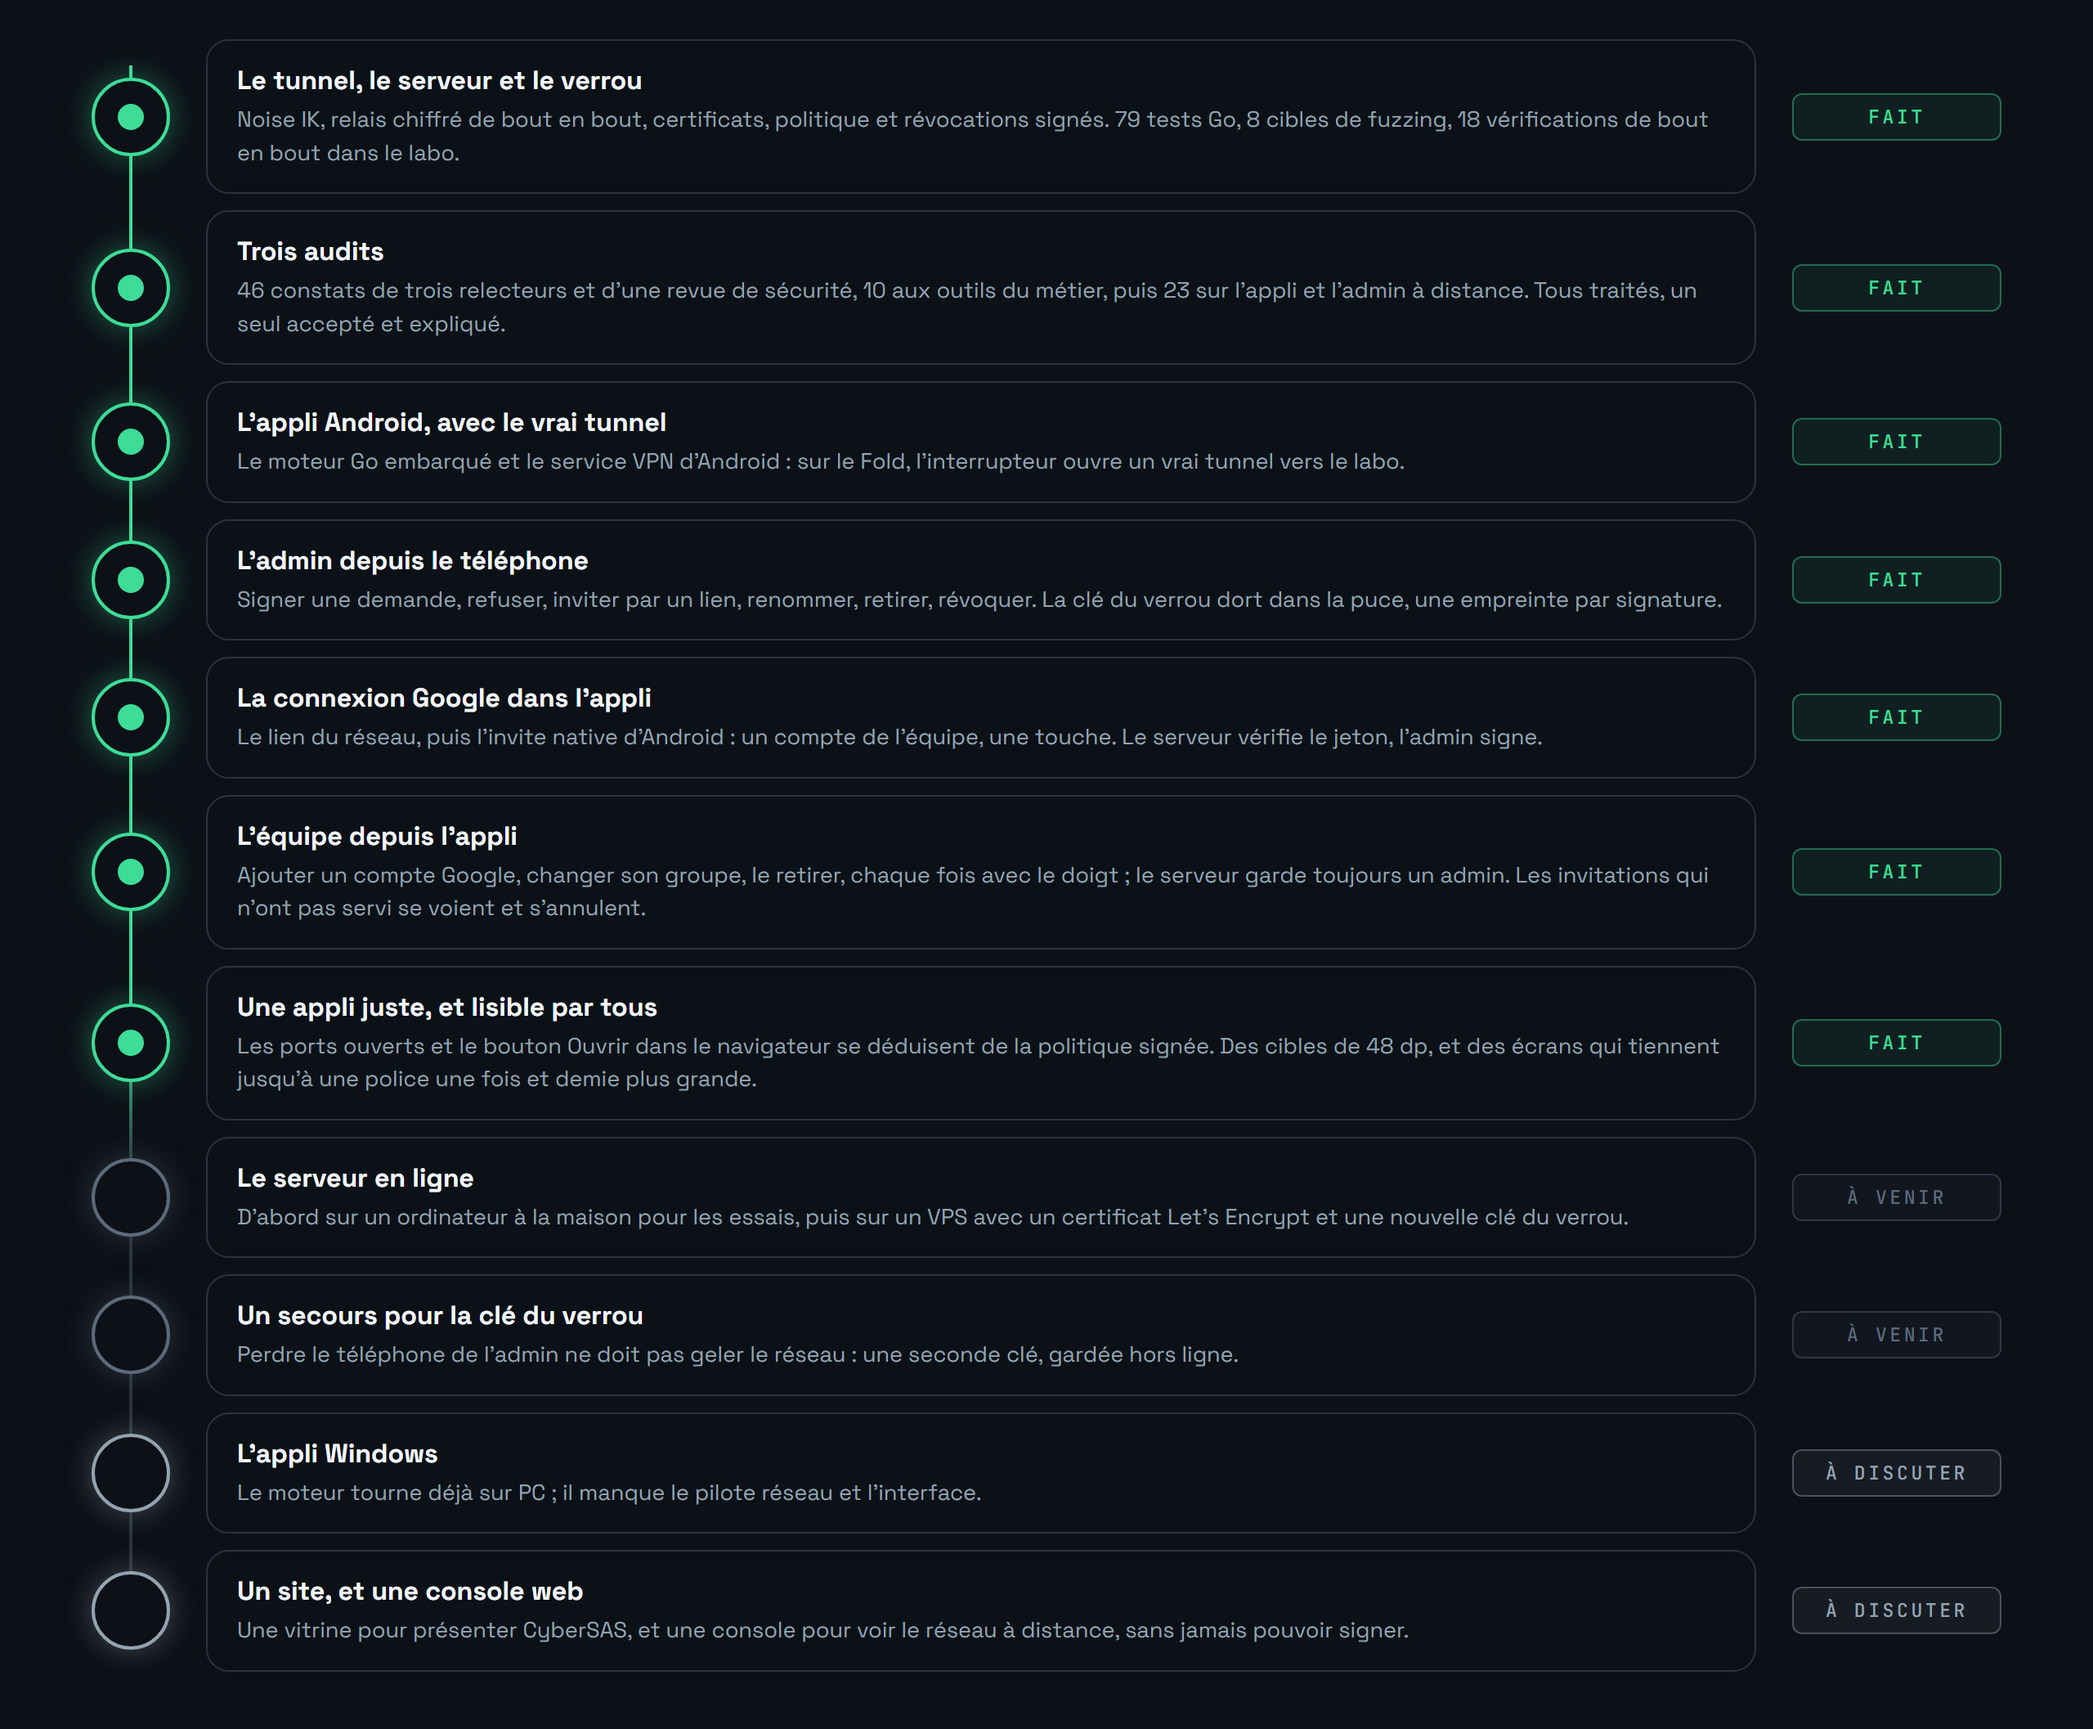
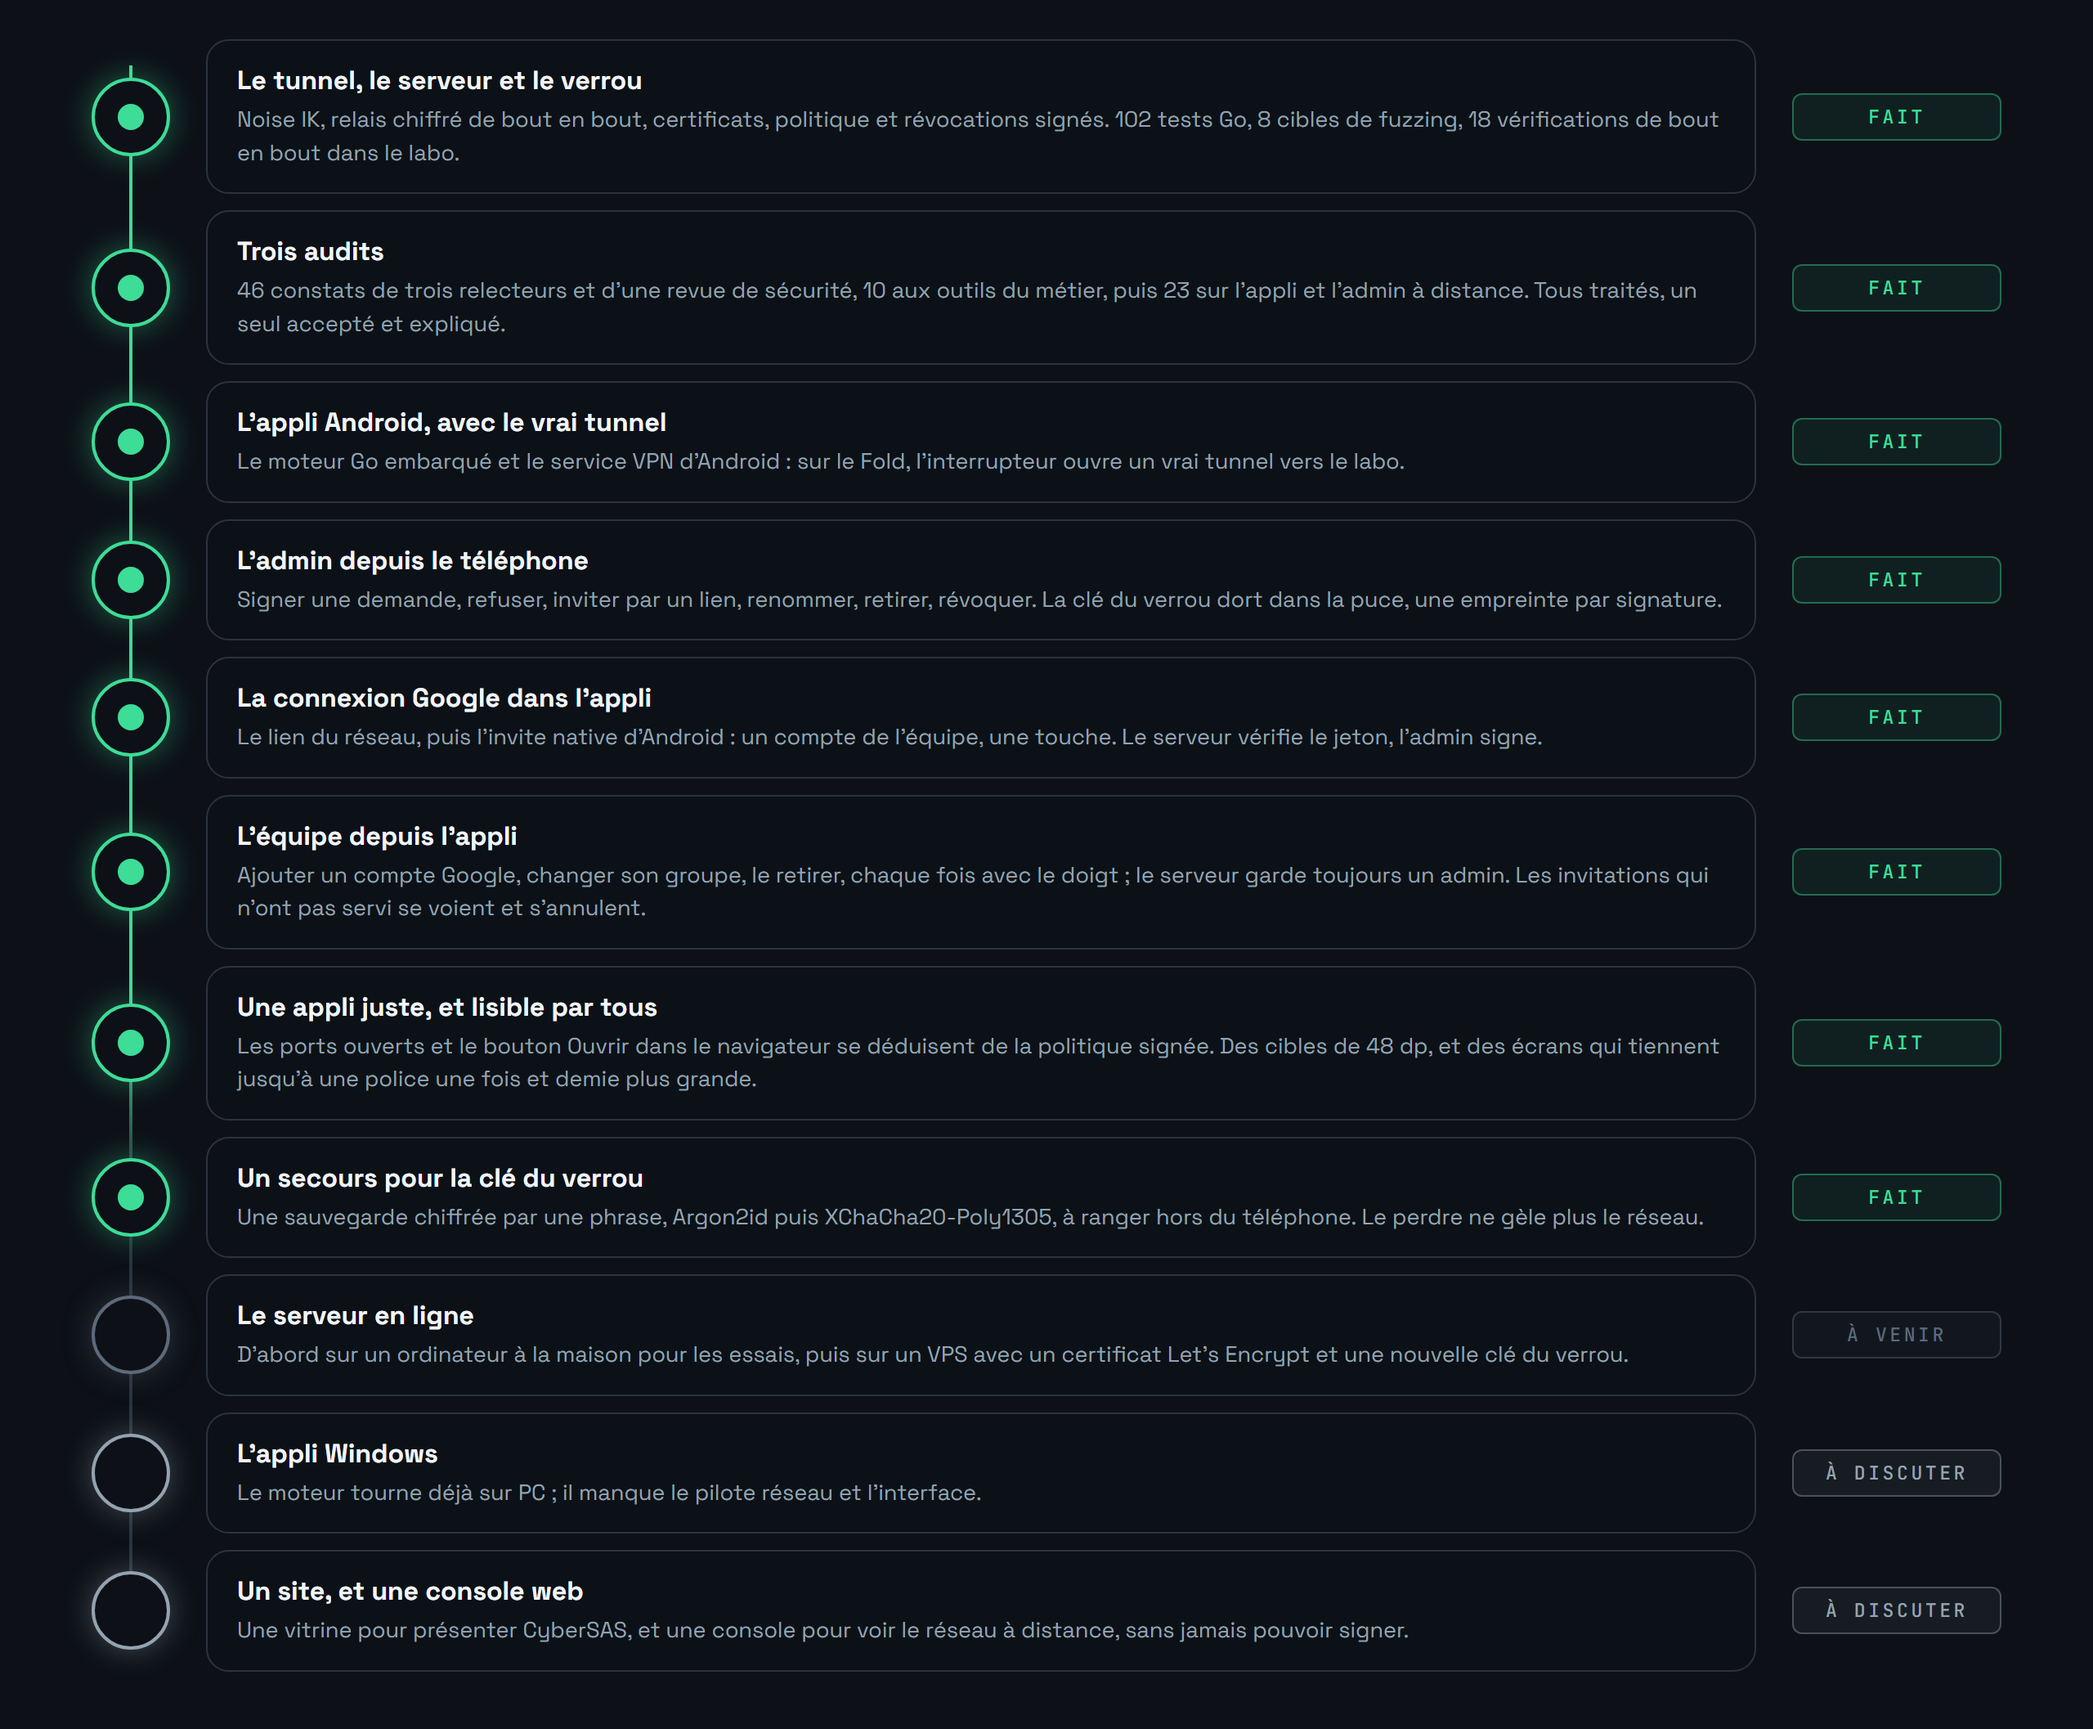
Vitrine : le secours du verrou est fait, 102 tests Go
Claude-Session: https://claude.ai/code/session_01T28XpngyMvVpHcfKT9HQLb

diff --git a/README.md b/README.md
@@ -109,7 +109,7 @@ L'essai vérifie entre autres que :
 
 Pour inviter un téléphone : `bash scripts/sas.sh invitation <adresse Google>` donne le lien à ouvrir sur lui, puis `bash scripts/sas.sh signer <sa clé publique>` signe sa demande depuis l'ordinateur, si on ne le fait pas depuis l'appli. Une invitation qui n'a pas encore servi se voit avec `bash scripts/sas.sh invitations` et s'annule avec `bash scripts/sas.sh annuler <id>`, ou depuis l'écran d'ajout de l'appli.
 
-Les tests du code se lancent à part : `go test -race ./...` (79 tests, dont les vecteurs officiels de Noise, et 8 cibles de fuzzing).
+Les tests du code se lancent à part : `go test -race ./...` (102 tests, dont les vecteurs officiels de Noise, et 8 cibles de fuzzing).
 
 Pour brancher la connexion Google des pages web, créer dans la [console Google Cloud](https://console.cloud.google.com/apis/credentials) un ID client OAuth de type **Application Web**, avec comme URI de redirection `https://auth.<domaine>/oauth2/callback`, puis :
 
@@ -127,7 +127,7 @@ bash scripts/sas.sh google <id>.apps.googleusercontent.com   # le secret est dem
 
 CyberSAS a été relu trois fois. D'abord par trois relecteurs indépendants et une revue de sécurité : 46 constats, dont 3 hauts. Puis aux outils du métier (govulncheck, staticcheck, gosec, Semgrep, Trivy, Hadolint, ShellCheck, Gixy, fuzzing différentiel contre flynn/noise) : 10 de plus. Enfin sur l'appli et l'admin à distance : 23, dont un haut, une révocation depuis l'appli qui reprenait sans la vérifier la liste du serveur. Tout est traité, chaque fois avec son test quand c'est possible, sauf un constat accepté et expliqué.
 
-<img src="docs/schemas/limites.png" alt="Ce qui est vrai : le serveur ne lit pas ce que deux appareils s'envoient ; un serveur piraté ne fait entrer personne ; retirer quelqu'un coupe ses appareils en cinq secondes ; trois audits, 79 constats, 78 corrigés et un accepté et expliqué. Ce qui ne l'est pas : pas d'audit humain, WireGuard reste le choix raisonnable pour des données sensibles ; le serveur voit les métadonnées ; ce n'est pas un VPN pour naviguer ; la clé du verrou n'a pas encore de secours." width="100%">
+<img src="docs/schemas/limites.png" alt="Ce qui est vrai : le serveur ne lit pas ce que deux appareils s'envoient ; un serveur piraté ne fait entrer personne ; retirer quelqu'un coupe ses appareils en cinq secondes ; trois audits, 79 constats, 78 corrigés et un accepté et expliqué. Ce qui ne l'est pas : pas d'audit humain, WireGuard reste le choix raisonnable pour des données sensibles ; le serveur voit les métadonnées ; ce n'est pas un VPN pour naviguer ; la sauvegarde du verrou ne vaut que sa phrase." width="100%">
 
 Pour aller plus loin, quatre documents, dessinés comme ce README :
 
@@ -143,7 +143,7 @@ Pour aller plus loin, quatre documents, dessinés comme ce README :
 <a name="la-feuille-de-route"></a>
 <img src="docs/sections/s10.png" alt="10 La feuille de route" width="100%">
 
-<img src="docs/schemas/feuille.png" alt="La feuille de route. Fait : le tunnel, le serveur et le verrou, 79 tests Go, 8 cibles de fuzzing et 18 vérifications de bout en bout ; trois audits ; l'appli Android avec le vrai tunnel ; l'admin depuis le téléphone, signer, refuser, inviter, renommer, retirer, révoquer ; la connexion Google dans l'appli ; l'équipe depuis l'appli, ajouter, changer de groupe, retirer, avec toujours un admin, et les invitations en cours qu'on annule ; une appli juste et lisible, les ports tirés de la politique signée, des cibles de 48 dp et les grandes polices. À venir : le serveur en ligne, d'abord à la maison puis sur un VPS ; un secours pour la clé du verrou. À discuter : l'appli Windows ; un site vitrine et une console web qui ne peut pas signer." width="100%">
+<img src="docs/schemas/feuille.png" alt="La feuille de route. Fait : le tunnel, le serveur et le verrou, 102 tests Go, 8 cibles de fuzzing et 18 vérifications de bout en bout ; trois audits ; l'appli Android avec le vrai tunnel ; l'admin depuis le téléphone, signer, refuser, inviter, renommer, retirer, révoquer ; la connexion Google dans l'appli ; l'équipe depuis l'appli, ajouter, changer de groupe, retirer, avec toujours un admin, et les invitations en cours qu'on annule ; une appli juste et lisible, les ports tirés de la politique signée, des cibles de 48 dp et les grandes polices ; un secours pour la clé du verrou, chiffré par une phrase. À venir : le serveur en ligne, d'abord à la maison puis sur un VPS. À discuter : l'appli Windows ; un site vitrine et une console web qui ne peut pas signer." width="100%">
 
 Les figures de ce README sont dessinées par les scripts de `docs/tools` : aucune ne sort d'un logiciel de dessin, et chaque animation est vérifiée image par image avant d'être publiée.
 

diff --git a/docs/audit.md b/docs/audit.md
@@ -701,13 +701,13 @@ Le service VPN n'est joignable que par le système ; le lien `cybersas://` n'est
 <a name="ce-qui-reste"></a>
 <img src="sections/audit/s10.png" alt="10 Ce qui reste" width="100%">
 
-<img src="schemas/audit/fiches-ce-qui-reste.png" alt="La clé privée de chaque appareil (à faire, aucun) ; La clé du verrou n'a pas de secours (à faire, aucun) ; Aucun audit humain (à faire, aucun) ; Les métadonnées (à faire, aucun) ; Les pages publiées par Nginx (à faire, aucun) ; Le premier contact (à faire, aucun) ; Google (à faire, aucun) ; La limite de débit de Nginx (à faire, aucun) ; L'adresse de retour après connexion web (à faire, aucun) ; Pas de liaison directe (à faire, aucun)." width="100%">
+<img src="schemas/audit/fiches-ce-qui-reste.png" alt="La clé privée de chaque appareil (à faire, aucun) ; La sauvegarde de secours du verrou (à faire, aucun) ; Aucun audit humain (à faire, aucun) ; Les métadonnées (à faire, aucun) ; Les pages publiées par Nginx (à faire, aucun) ; Le premier contact (à faire, aucun) ; Google (à faire, aucun) ; La limite de débit de Nginx (à faire, aucun) ; L'adresse de retour après connexion web (à faire, aucun) ; Pas de liaison directe (à faire, aucun)." width="100%">
 
 <details>
 <summary>Le détail</summary>
 
 - **La clé privée de chaque appareil** n'est pas enveloppée par la puce du téléphone (constat A18) : protégée par Android, exclue des sauvegardes.
-- **La clé du verrou n'a pas de secours** : perdre le téléphone de l'admin sans copie hors ligne gèle toute signature.
+- **La sauvegarde de secours du verrou** ne vaut que sa phrase : qui vole le texte peut essayer des phrases hors ligne, sans limite (Argon2id à 64 Mio ralentit chaque essai, sans l'empêcher).
 - **Aucun audit humain.** C'est la prochaine étape sérieuse avant de confier au
   VPN des données dont la fuite serait grave.
 - **Les métadonnées** : le serveur voit qui parle à qui, quand et combien.

diff --git a/docs/tools/audit.source.md b/docs/tools/audit.source.md
@@ -666,7 +666,7 @@ Le service VPN n'est joignable que par le système ; le lien `cybersas://` n'est
 <img src="sections/audit/s10.png" alt="10 Ce qui reste" width="100%">
 
 - **La clé privée de chaque appareil** n'est pas enveloppée par la puce du téléphone (constat A18) : protégée par Android, exclue des sauvegardes.
-- **La clé du verrou n'a pas de secours** : perdre le téléphone de l'admin sans copie hors ligne gèle toute signature.
+- **La sauvegarde de secours du verrou** ne vaut que sa phrase : qui vole le texte peut essayer des phrases hors ligne, sans limite (Argon2id à 64 Mio ralentit chaque essai, sans l'empêcher).
 - **Aucun audit humain.** C'est la prochaine étape sérieuse avant de confier au
   VPN des données dont la fuite serait grave.
 - **Les métadonnées** : le serveur voit qui parle à qui, quand et combien.
